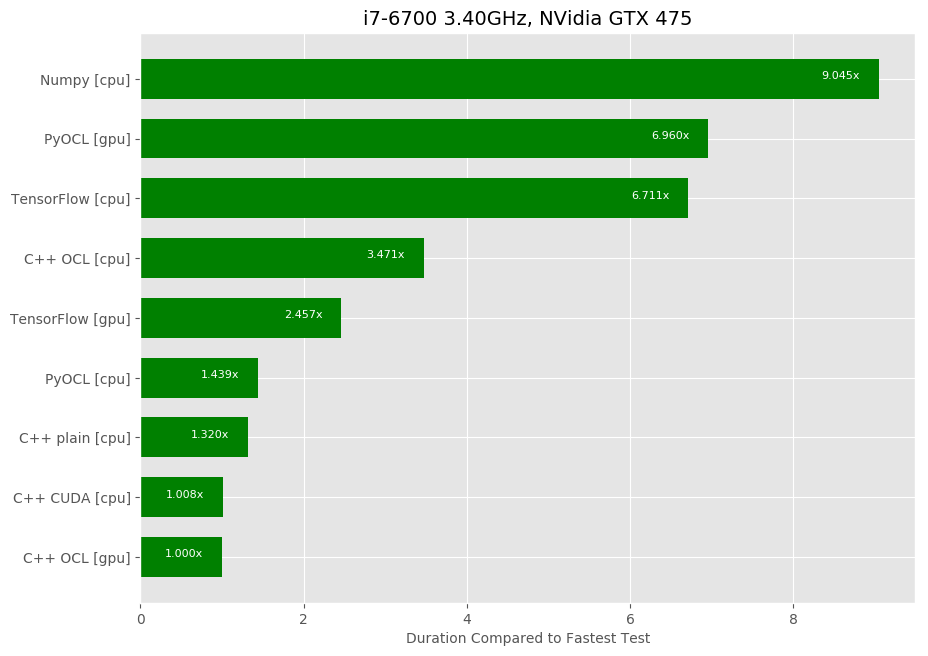
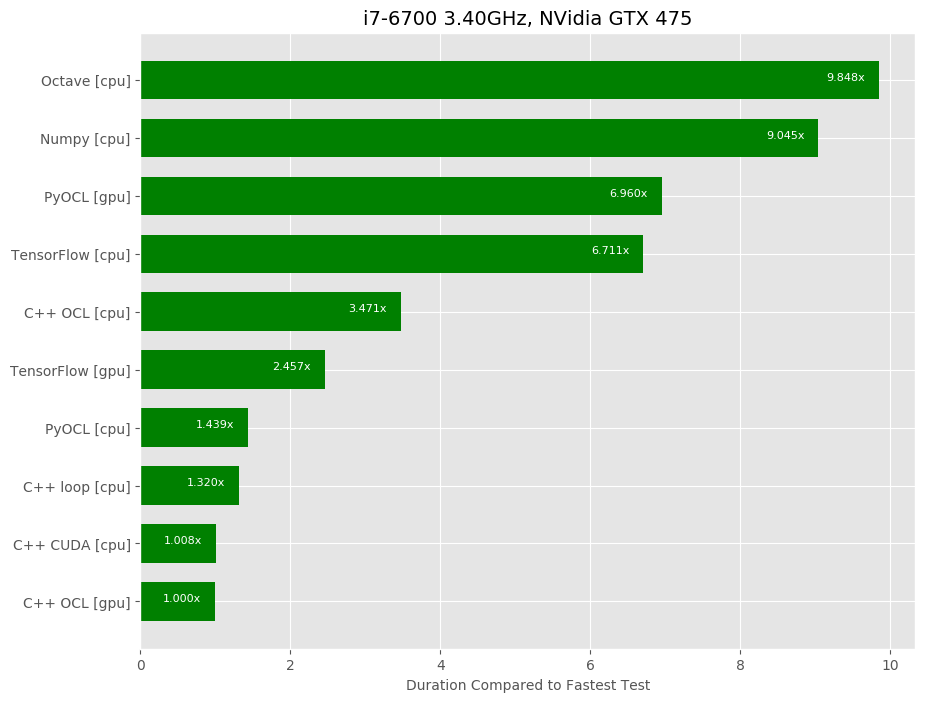
Added Octave result

diff --git a/results/create_charts.py b/results/create_charts.py
@@ -8,11 +8,12 @@ import numpy as np
 import pandas as pd
 
 known_columns = set(['Python loop [cpu]', 'Numpy [cpu]',
-                     'C++ plain [cpu]',
+                     'C++ loop [cpu]',
                      'C++ CUDA [cpu]',
                      'C++ OCL [cpu]', 'C++ OCL [gpu]',
                      'PyOCL [cpu]', 'PyOCL [gpu]',
-                     'TensorFlow [cpu]', 'TensorFlow [gpu]'])
+                     'TensorFlow [cpu]', 'TensorFlow [gpu]',
+                     'Octave [cpu]'])
 
 def create_chart(spec, output_md, use_rel=True):
     print('Processing {} "{}"'.format(spec['data'], spec['title']))
@@ -40,15 +41,12 @@ def create_chart(spec, output_md, use_rel=True):
     m = df.mean().sort_values(ascending=False)
     for idx in m.index:
         if idx not in known_columns:
-            sys.stderr.write("Error: unrecognized column name '{}'\n".format(idx))
+            sys.stderr.write("Error: unrecognized column name '{}'. Standard names are required.\n".format(idx))
             sys.exit(1)
     rel = m / m[-1]
     std = df.std()
 
-    output_md += "\n### Result\n\n"
-    output_md += '![{}]({}?raw=true "{}")\n\n'.format(png_file, png_file, png_file)
-
-    output_md += "\n ### Details\n\n"
+    output_md += "\n ### Result Details\n\n"
     output_md += "| Test   | Mean Time (ms) | StdDev (ms) | Time (rel)\n"
     output_md += "|--------| --------: | --------: | --------: |\n"
 
@@ -57,6 +55,9 @@ def create_chart(spec, output_md, use_rel=True):
                                                  "%.2fx" % rel[idx])
 
     output_md += "\n"
+
+    output_md += "\n### Result\n\n"
+    output_md += '![{}]({}?raw=true "{}")\n\n'.format(png_file, png_file, png_file)
 
     # Remove outliers as we don't support broken/discontinuous axis yet
     notes = ""
@@ -112,19 +113,17 @@ file. Feel free to submit a result:
 2. Create an entry in [result_specs.json](result_specs.json)
 3. Create pull request
 
-When creating a CSV, please standardize the column names to use the following names, otherwise
-the CSV will be rejected by `create_charts.py`:
-- 'Python loop [cpu]', 'Numpy [cpu]', 
-- 'C++ plain [cpu]', 
-- 'C++ CUDA [cpu]', 
-- 'C++ OCL [cpu]', 'C++ OCL [gpu]',
-- 'PyOCL [cpu]', 'PyOCL [gpu]',
-- 'TensorFlow [cpu]', 'TensorFlow [gpu]'
+When creating a CSV, please standardize the column names to the following, otherwise
+the CSV will be rejected by `create_charts.py`. The names are standardized in case we want to do
+some statistics with them in the future:
 """
 
 if __name__ == "__main__":
     specs = json.loads(open('result_specs.json').read())
     output_md = README_MD
+
+    output_md += "".join(["- %s\n" % nm for nm in list(known_columns)])
+    output_md += "\n"
 
     for spec in specs:
         output_md = create_chart(spec, output_md)

diff --git a/saxpy.m b/saxpy.m
@@ -1,7 +1,7 @@
 N = 2 ^ 26
-XVAL = 2.0;
-YVAL = 1.0;
-AVAL = 3.0;
+XVAL = 2.5;
+YVAL = 1.3;
+AVAL = 3.7;
 
 x = ones(N,1) * XVAL;
 y = ones(N,1) * YVAL;

diff --git a/results/README.md b/results/README.md
@@ -7,14 +7,21 @@ file. Feel free to submit a result:
 2. Create an entry in [result_specs.json](result_specs.json)
 3. Create pull request
 
-When creating a CSV, please standardize the column names to use the following names, otherwise
-the CSV will be rejected by `create_charts.py`:
-- 'Python loop [cpu]', 'Numpy [cpu]', 
-- 'C++ plain [cpu]', 
-- 'C++ CUDA [cpu]', 
-- 'C++ OCL [cpu]', 'C++ OCL [gpu]',
-- 'PyOCL [cpu]', 'PyOCL [gpu]',
-- 'TensorFlow [cpu]', 'TensorFlow [gpu]'
+When creating a CSV, please standardize the column names to the following, otherwise
+the CSV will be rejected by `create_charts.py`. The names are standardized in case we want to do
+some statistics with them in the future:
+- C++ CUDA [cpu]
+- TensorFlow [gpu]
+- C++ OCL [gpu]
+- PyOCL [cpu]
+- C++ OCL [cpu]
+- PyOCL [gpu]
+- Octave [cpu]
+- TensorFlow [cpu]
+- C++ loop [cpu]
+- Numpy [cpu]
+- Python loop [cpu]
+
 
 
 # i7-6700 3.40GHz, NVidia GTX 475
@@ -38,27 +45,29 @@ Submitted by Benny Prijono on 2017-11-14
 | OpenCL | - Intel OpenCL SDK Version 7.0.0.2519 |
 |  | - OpenCL from CUDA SDK |
 | PyOpenCL | version 2017.2 |
+| Octave | version 4.2.1 64bit |
 
 
-### Result
-
-![benny-desktop1.png](benny-desktop1.png?raw=true "benny-desktop1.png")
-
-
- ### Details
+ ### Result Details
 
 | Test   | Mean Time (ms) | StdDev (ms) | Time (rel)
 |--------| --------: | --------: | --------: |
 | Python loop [cpu] | 12494.000 | 198.252 | 390.80x |
+| Octave [cpu] | 314.848 | 15.985 | 9.85x |
 | Numpy [cpu] | 289.167 | 21.628 | 9.04x |
 | PyOCL [gpu] | 222.500 | 3.271 | 6.96x |
 | TensorFlow [cpu] | 214.564 | 2.450 | 6.71x |
 | C++ OCL [cpu] | 110.983 | 2.128 | 3.47x |
 | TensorFlow [gpu] | 78.536 | 0.522 | 2.46x |
 | PyOCL [cpu] | 46.000 | 1.265 | 1.44x |
-| C++ plain [cpu] | 42.213 | 3.059 | 1.32x |
+| C++ loop [cpu] | 42.213 | 3.059 | 1.32x |
 | C++ CUDA [cpu] | 32.218 | 0.019 | 1.01x |
 | C++ OCL [gpu] | 31.970 | 0.057 | 1.00x |
+
+
+### Result
+
+![benny-desktop1.png](benny-desktop1.png?raw=true "benny-desktop1.png")
 
 
 ### Notes
@@ -83,20 +92,20 @@ Submitted by Benny Prijono on 2017-11-14
 | OpenCL | preinstalled (XCode 5.1.1) |
 
 
-### Result
-
-![benny-macbook.png](benny-macbook.png?raw=true "benny-macbook.png")
-
-
- ### Details
+ ### Result Details
 
 | Test   | Mean Time (ms) | StdDev (ms) | Time (rel)
 |--------| --------: | --------: | --------: |
 | Python loop [cpu] | 20491.674 | 2353.082 | 429.93x |
 | Numpy [cpu] | 448.097 | 14.627 | 9.40x |
 | C++ OCL [gpu] | 56.174 | 1.138 | 1.18x |
-| C++ plain [cpu] | 50.127 | 2.145 | 1.05x |
+| C++ loop [cpu] | 50.127 | 2.145 | 1.05x |
 | C++ OCL [cpu] | 47.663 | 0.936 | 1.00x |
+
+
+### Result
+
+![benny-macbook.png](benny-macbook.png?raw=true "benny-macbook.png")
 
 
 ### Notes

diff --git a/README.md b/README.md
@@ -14,6 +14,7 @@ This repository contains several implementations of SAXPY such as:
  - C++ CUDA (GPU) [[saxpy_cuda.cu](saxpy_cuda.cu)]
  - OpenCL (CPU and GPU) [[saxpy_ocl1.cpp](saxpy_ocl1.cpp)] 
  - PyOpenCL (CPU and GPU) [[saxpy_pyocl.py](saxpy_pyocl.py)]
+ - Octave [[saxpy.m](saxpy.m)]
 
 For the benchmark, we only measure the time to perform the actual loop and not other things 
 such as initialization and data transfers between CPU and GPU, which most likely will exceed
@@ -25,7 +26,7 @@ the loop time since our loop is very simple.
 See the [results](results/) directory for the full results.
 
 Here is a sample result. Note that the naive Python loop result is **excluded** from the chart
-because its value is too big (around 300x slower than native C++ version).
+because its value is too big (around 300x slower than C++ loop in most benchmarks).
 
 ![benny-desktop1.png](results/benny-desktop1.png?raw=true "benny-desktop1.png")
 
@@ -359,4 +360,34 @@ Using /device:CPU:0
 N: 67108864
 Elapsed: 233.62112045288086 ms
 Errors: 0.0
+```
+
+# Octave
+
+GNU Octave ([https://www.gnu.org/software/octave/](https://www.gnu.org/software/octave/)) is a
+scientific programming language with powerful mathematics-oriented syntax with built-in plotting 
+and visualization tools, with syntax largely compatible with Matlab. 
+
+It's very popular for prototyping machine learning models because of its array accessing syntax
+cleanliness and for its speed too, some say. So let's put it through its paces.
+
+
+Similar to Numpy, implementing SAXPY as vectorized computation is trivial. In fact this is the
+whole source code ([saxpy.m](saxpy.m)):
+
+```
+N = 2 ^ 26
+XVAL = 2.5;
+YVAL = 1.3;
+AVAL = 3.7;
+
+x = ones(N,1) * XVAL;
+y = ones(N,1) * YVAL;
+
+tic;
+y += x * AVAL;
+toc
+
+answer = YVAL + AVAL * XVAL;
+error = sum(abs(y - answer))
 ```
